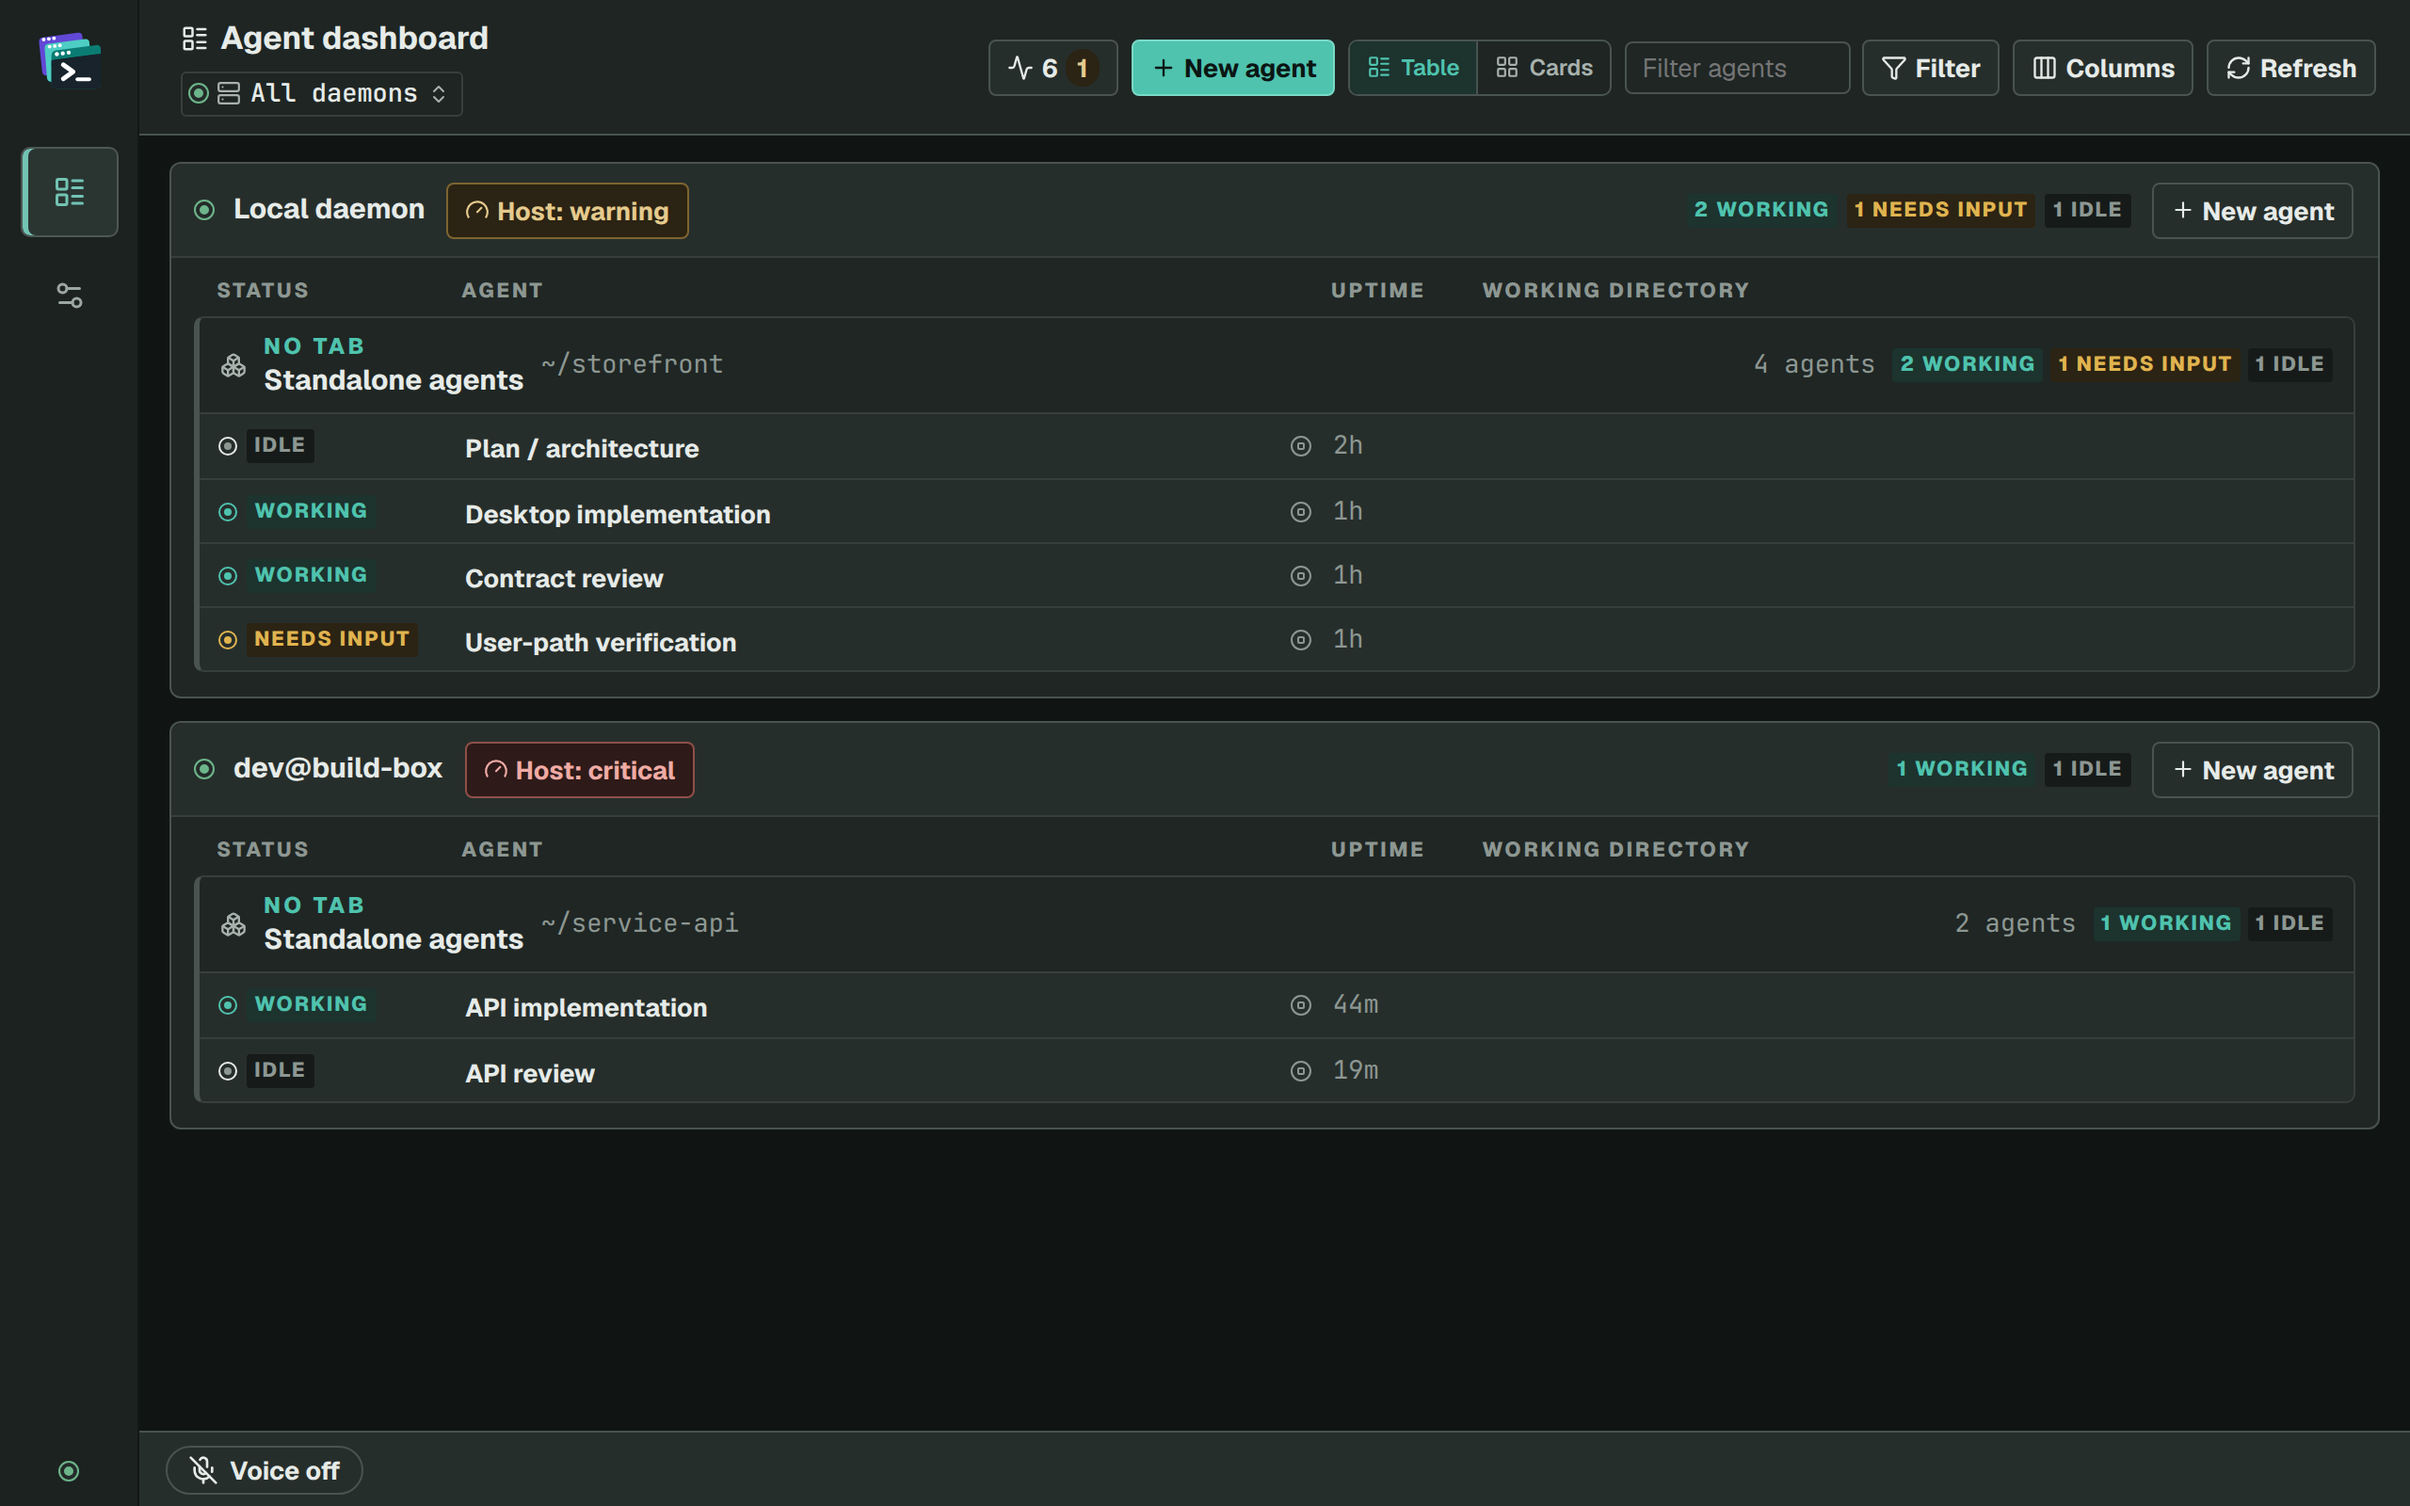
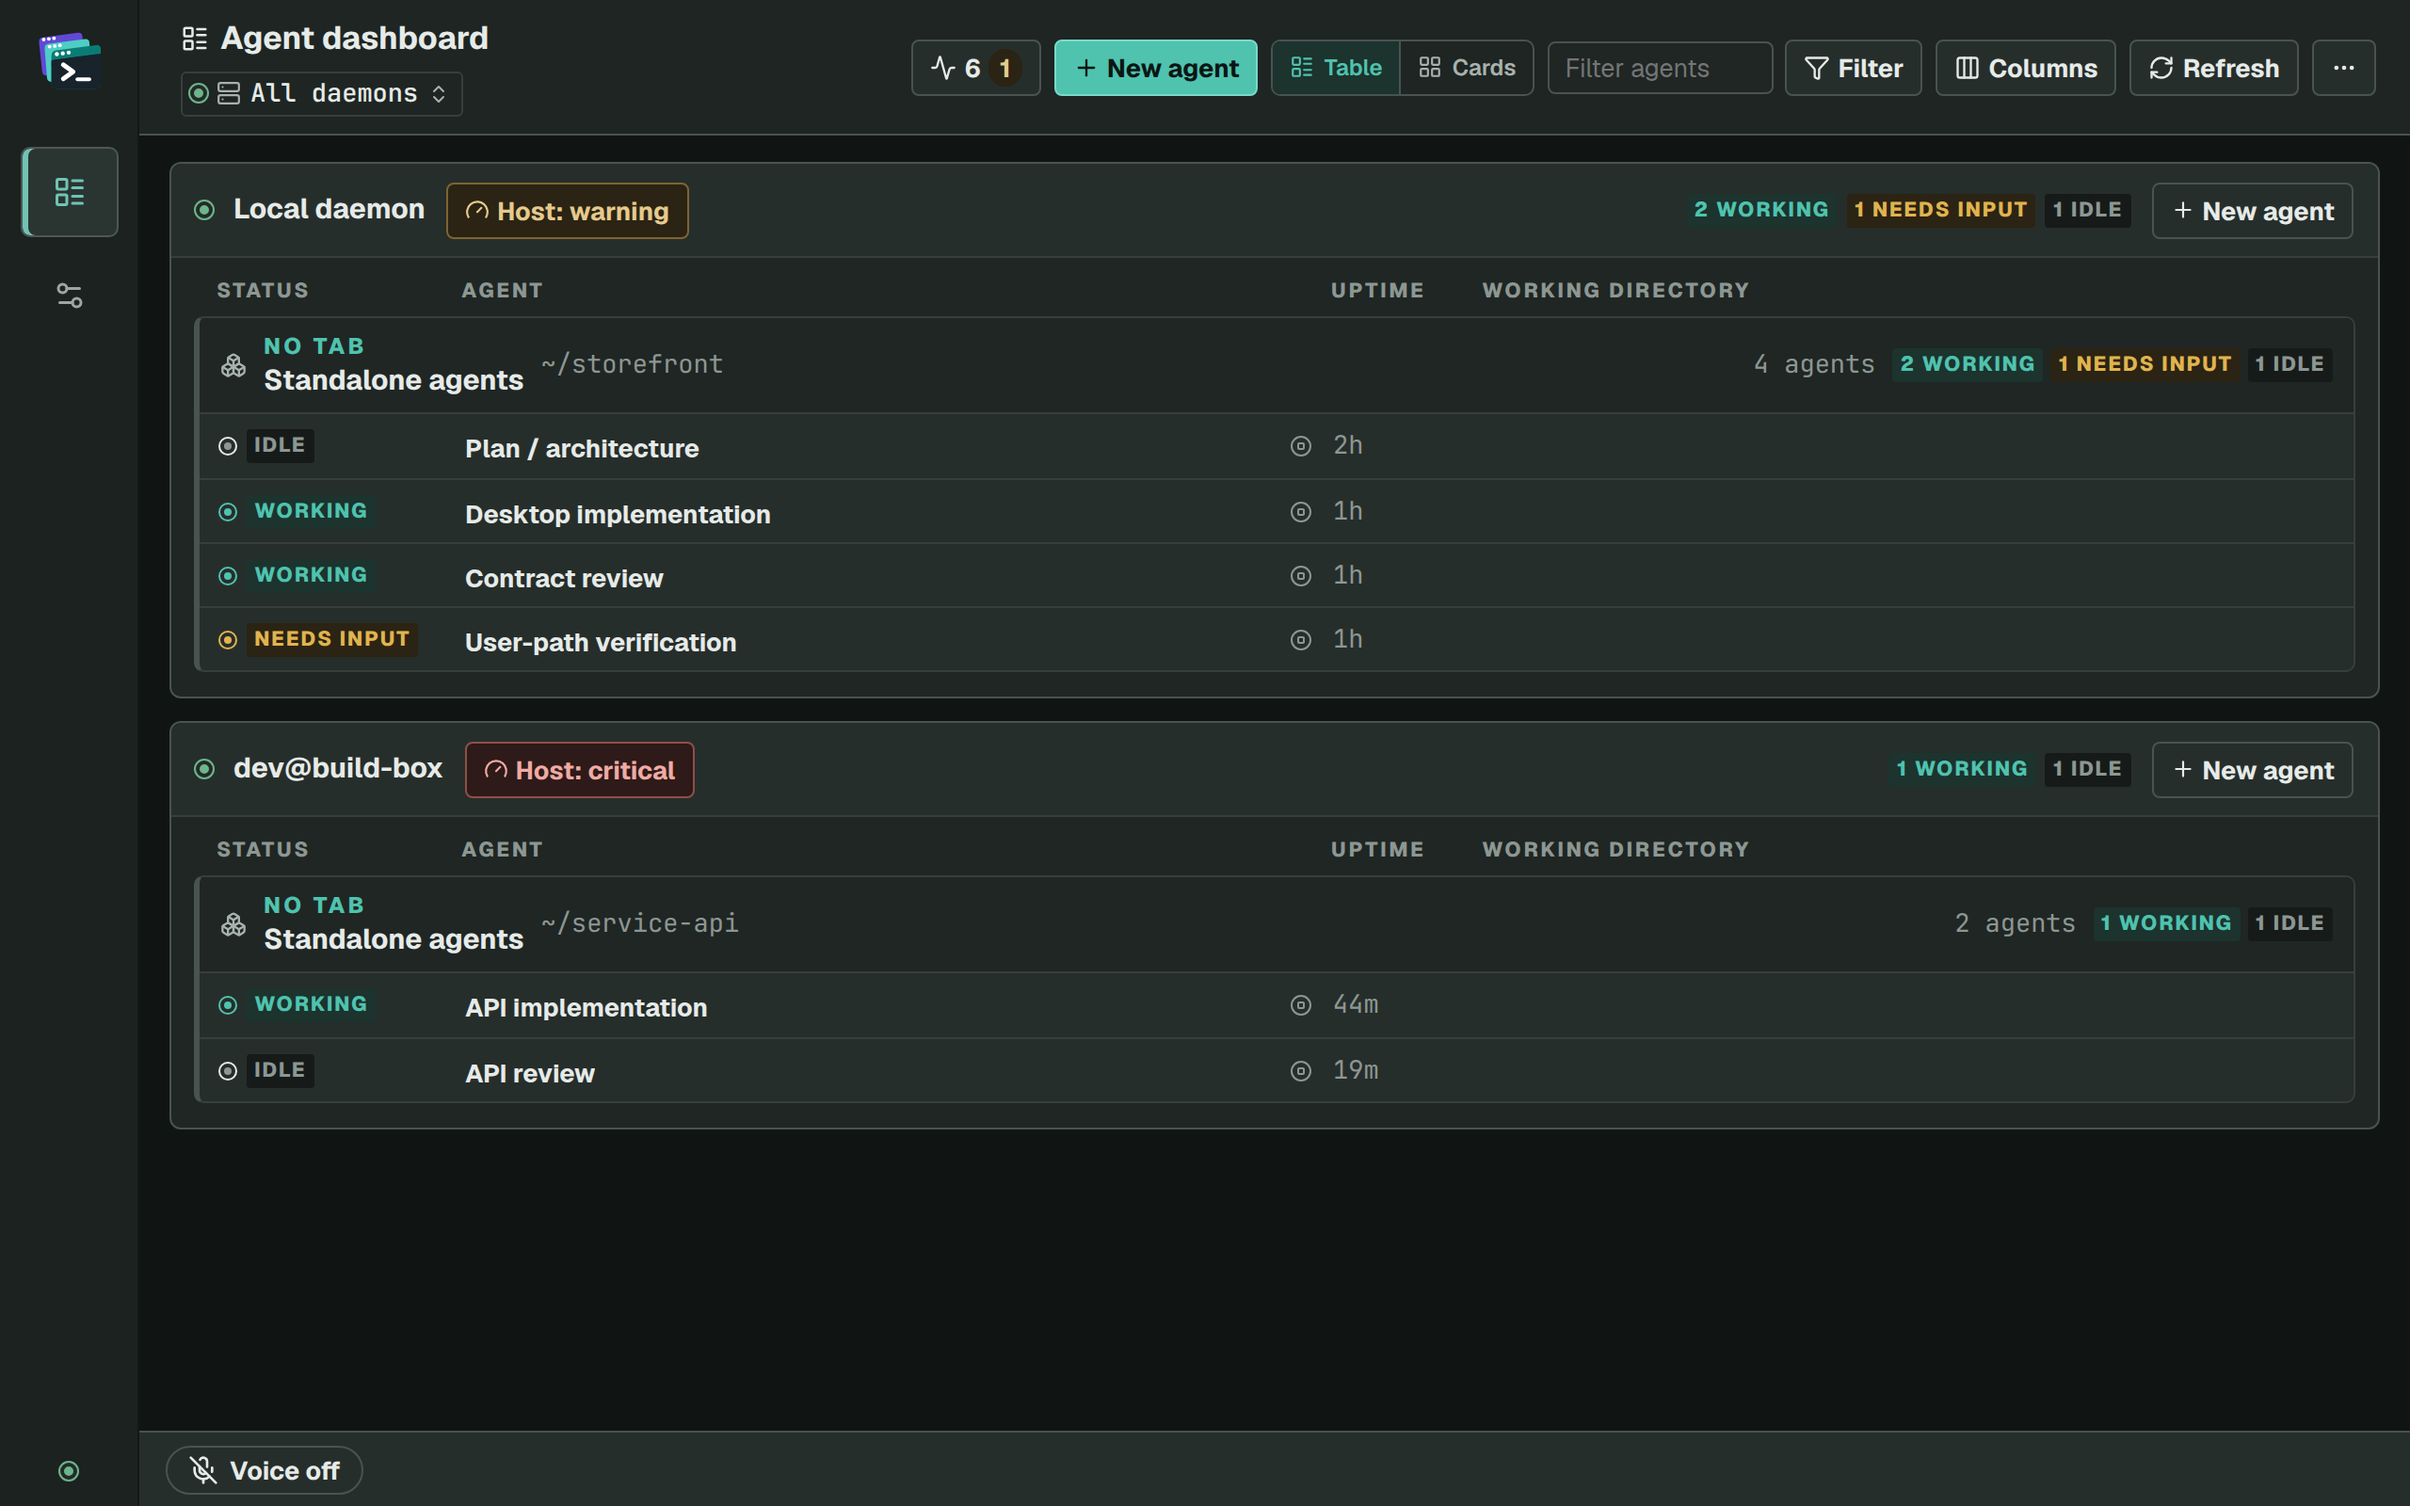
docs(screenshots): ⋯ menu and Needs you only chip scenes; refresh the dashboard images (#2374)
New desktop scenes agent-cards-daemon-menu, dashboard-more-menu and
dashboard-needs-you-chip; agent-cards-actions-editor opens the editor from
the daemon's ⋯ menu. The landing page's dashboard-desktop.png and
dashboard-fleet-desktop.png are regenerated (dark, single theme): the top
bar now has the ⋯ menu.

Changed region(s): [[0.375, 0.0, 0.9688, 0.0625]]

diff --git a/desktop/screenshots/desktop.shot.ts b/desktop/screenshots/desktop.shot.ts
@@ -387,17 +387,63 @@ desktopScenario("agent-cards-batch-results", async (page) => {
 });
 
 // PRD #2374 decision 2026-11-24 — desktop-only: the TUI has no cards view.
-// The Card actions editor on the `cards=tree` scene's daemon (it advertises
-// the editor; the fixture bridge answers from the deck's two defaults), with
-// Add action's form filled in for a Deploy it action and its icon grid open
-// on the rocket chosen.
-desktopScenario("agent-cards-actions-editor", async (page) => {
+// The `cards=tree` scene's Cards view: its daemon advertises the Card
+// actions editor (the fixture bridge answers from the deck's two defaults).
+async function openTreeCards(page: Page): Promise<void> {
   await page.goto("/?fixture=1&state=docs&cards=tree");
   await expect(page.getByRole("complementary", { name: "Primary navigation" })).toBeVisible();
   await page.getByTestId("open-overview").click();
   await page.getByTestId("overview-mode-cards").click();
-  await page.getByRole("button", { name: "Card actions", exact: true }).click();
-  const editor = page.getByRole("dialog", { name: "Card actions" });
+  await expect(page.getByTestId("agent-cards-tree")).toBeVisible();
+}
+
+// PR #2491 decision 2026-11-25 — the daemon's ⋯ menu, just left of its New
+// agent button, open on Card actions; no line of counts or buttons above
+// the cards.
+desktopScenario("agent-cards-daemon-menu", async (page) => {
+  await openTreeCards(page);
+  await expect(page.locator(".agent-cards-toolbar")).toHaveCount(0);
+  await page.getByTestId("daemon-more").first().click();
+  const menu = page.getByTestId("daemon-more-menu");
+  await expect(menu.getByRole("menuitem", { name: "Card actions" })).toBeVisible();
+  await expect(menu).toBeInViewport({ ratio: 1 });
+});
+
+// PR #2491 decision 2026-11-25 — the Dashboard's ⋯ menu, right of Refresh,
+// open on Needs you only (not ticked), with the count of agents that need
+// you on the ⋯.
+desktopScenario("dashboard-more-menu", async (page) => {
+  await openTreeCards(page);
+  await expect(page.getByTestId("overview-needs-you-count")).toHaveText("3");
+  await page.getByRole("button", { name: "More", exact: true }).click();
+  const menu = page.getByTestId("overview-more-menu");
+  await expect(menu.getByRole("menuitemcheckbox", { name: "Needs you only" })).toHaveAttribute("aria-checked", "false");
+  await expect(menu).toBeInViewport({ ratio: 1 });
+});
+
+// PR #2491 decision 2026-11-25 — Needs you only on, in the Table view: the
+// chip beside Filter, and only the agents that need you with the agents above
+// them (issue-queue, prd-2374, tester, issue-2310, docs-site, editor).
+desktopScenario("dashboard-needs-you-chip", async (page) => {
+  await openTreeCards(page);
+  await page.getByTestId("overview-mode-table").click();
+  await page.getByRole("button", { name: "More", exact: true }).click();
+  await page.getByRole("menuitemcheckbox", { name: "Needs you only" }).click();
+  await expect(page.getByTestId("overview-more-menu")).toHaveCount(0);
+  await expect(page.getByTestId("needs-you-chip")).toBeVisible();
+  await expect(page.getByRole("row", { name: /^Open .* agent$/ })).toHaveCount(6);
+  await page.mouse.move(0, 0);
+});
+
+// The Card actions editor on the `cards=tree` scene's daemon, opened from its
+// ⋯ menu and titled with its name, with Add action's form filled in for a
+// Deploy it action and its icon grid open on the rocket chosen.
+desktopScenario("agent-cards-actions-editor", async (page) => {
+  await openTreeCards(page);
+  await page.getByTestId("daemon-more").first().click();
+  await page.getByRole("menuitem", { name: "Card actions" }).click();
+  const editor = page.getByRole("dialog", { name: /^Card actions: / });
+  await expect(editor.getByRole("combobox", { name: "Daemon" })).toHaveCount(0);
   await expect(editor.locator('[data-testid="agent-card-actions-editor-row"][data-action="go-ahead"]')).toHaveAttribute("data-source", "deck");
   await expect(editor.locator('[data-testid="agent-card-actions-editor-row"][data-action="merge"]')).toHaveAttribute("data-source", "deck");
   await editor.getByRole("button", { name: "Add action", exact: true }).click();

diff --git a/xtask/screenshots/src/scenarios.rs b/xtask/screenshots/src/scenarios.rs
@@ -214,7 +214,22 @@ pub const SCENARIOS: &[Scenario] = &[
     },
     Scenario {
         name: "agent-cards-actions-editor",
-        description: "The desktop Card actions editor's form for a new action, Deploy it, with its text over two lines and its icon grid open on the rocket; the listed actions are below it (PRD #2374 decision 2026-11-24).",
+        description: "The desktop Card actions editor, opened from the daemon's ⋯ menu and titled with its name: the form for a new action, Deploy it, with its text over two lines and its icon grid open on the rocket; the listed actions are below it (PRD #2374 decision 2026-11-24, PR #2491 decision 2026-11-25).",
+        clients: &[Client::Desktop],
+    },
+    Scenario {
+        name: "agent-cards-daemon-menu",
+        description: "A daemon's ⋯ menu on the desktop Dashboard, open on Card actions, with the cards right under the top bar (PR #2491 decision 2026-11-25).",
+        clients: &[Client::Desktop],
+    },
+    Scenario {
+        name: "dashboard-more-menu",
+        description: "The desktop Dashboard's ⋯ menu, right of Refresh, open on Needs you only, with the count of agents that need you on the ⋯ (PR #2491 decision 2026-11-25).",
+        clients: &[Client::Desktop],
+    },
+    Scenario {
+        name: "dashboard-needs-you-chip",
+        description: "Needs you only on in the desktop Dashboard's Table view: the Needs you only chip beside Filter, and only the agents that need you with the agents above them (PR #2491 decision 2026-11-25).",
         clients: &[Client::Desktop],
     },
     Scenario {
